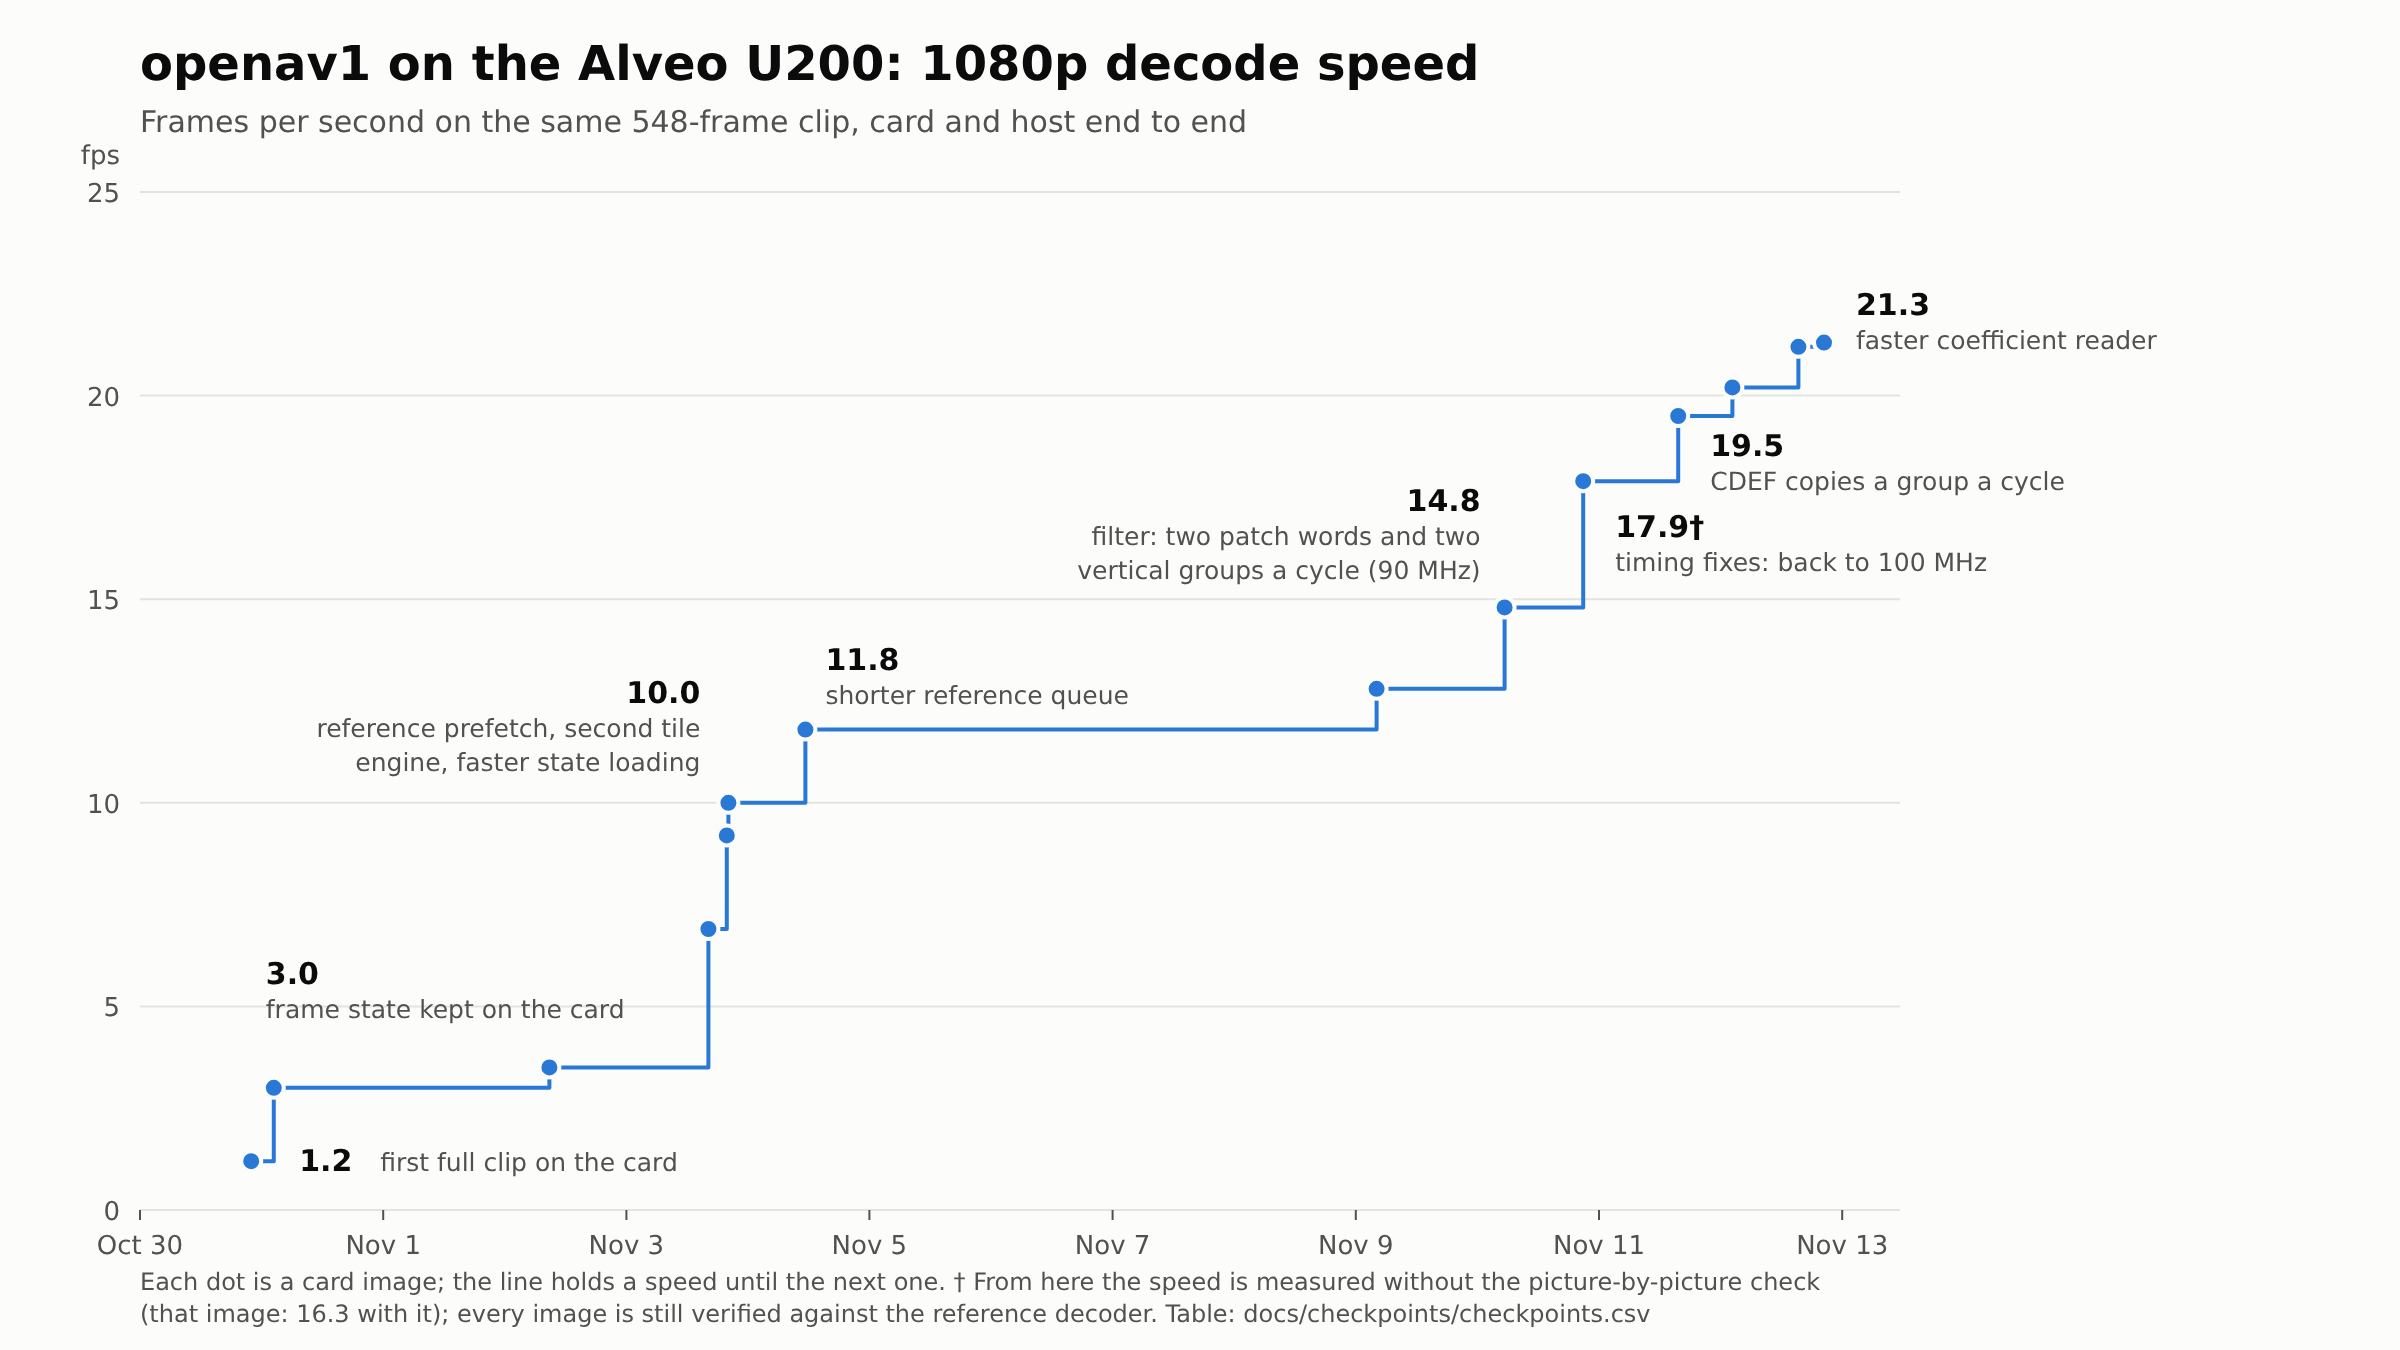
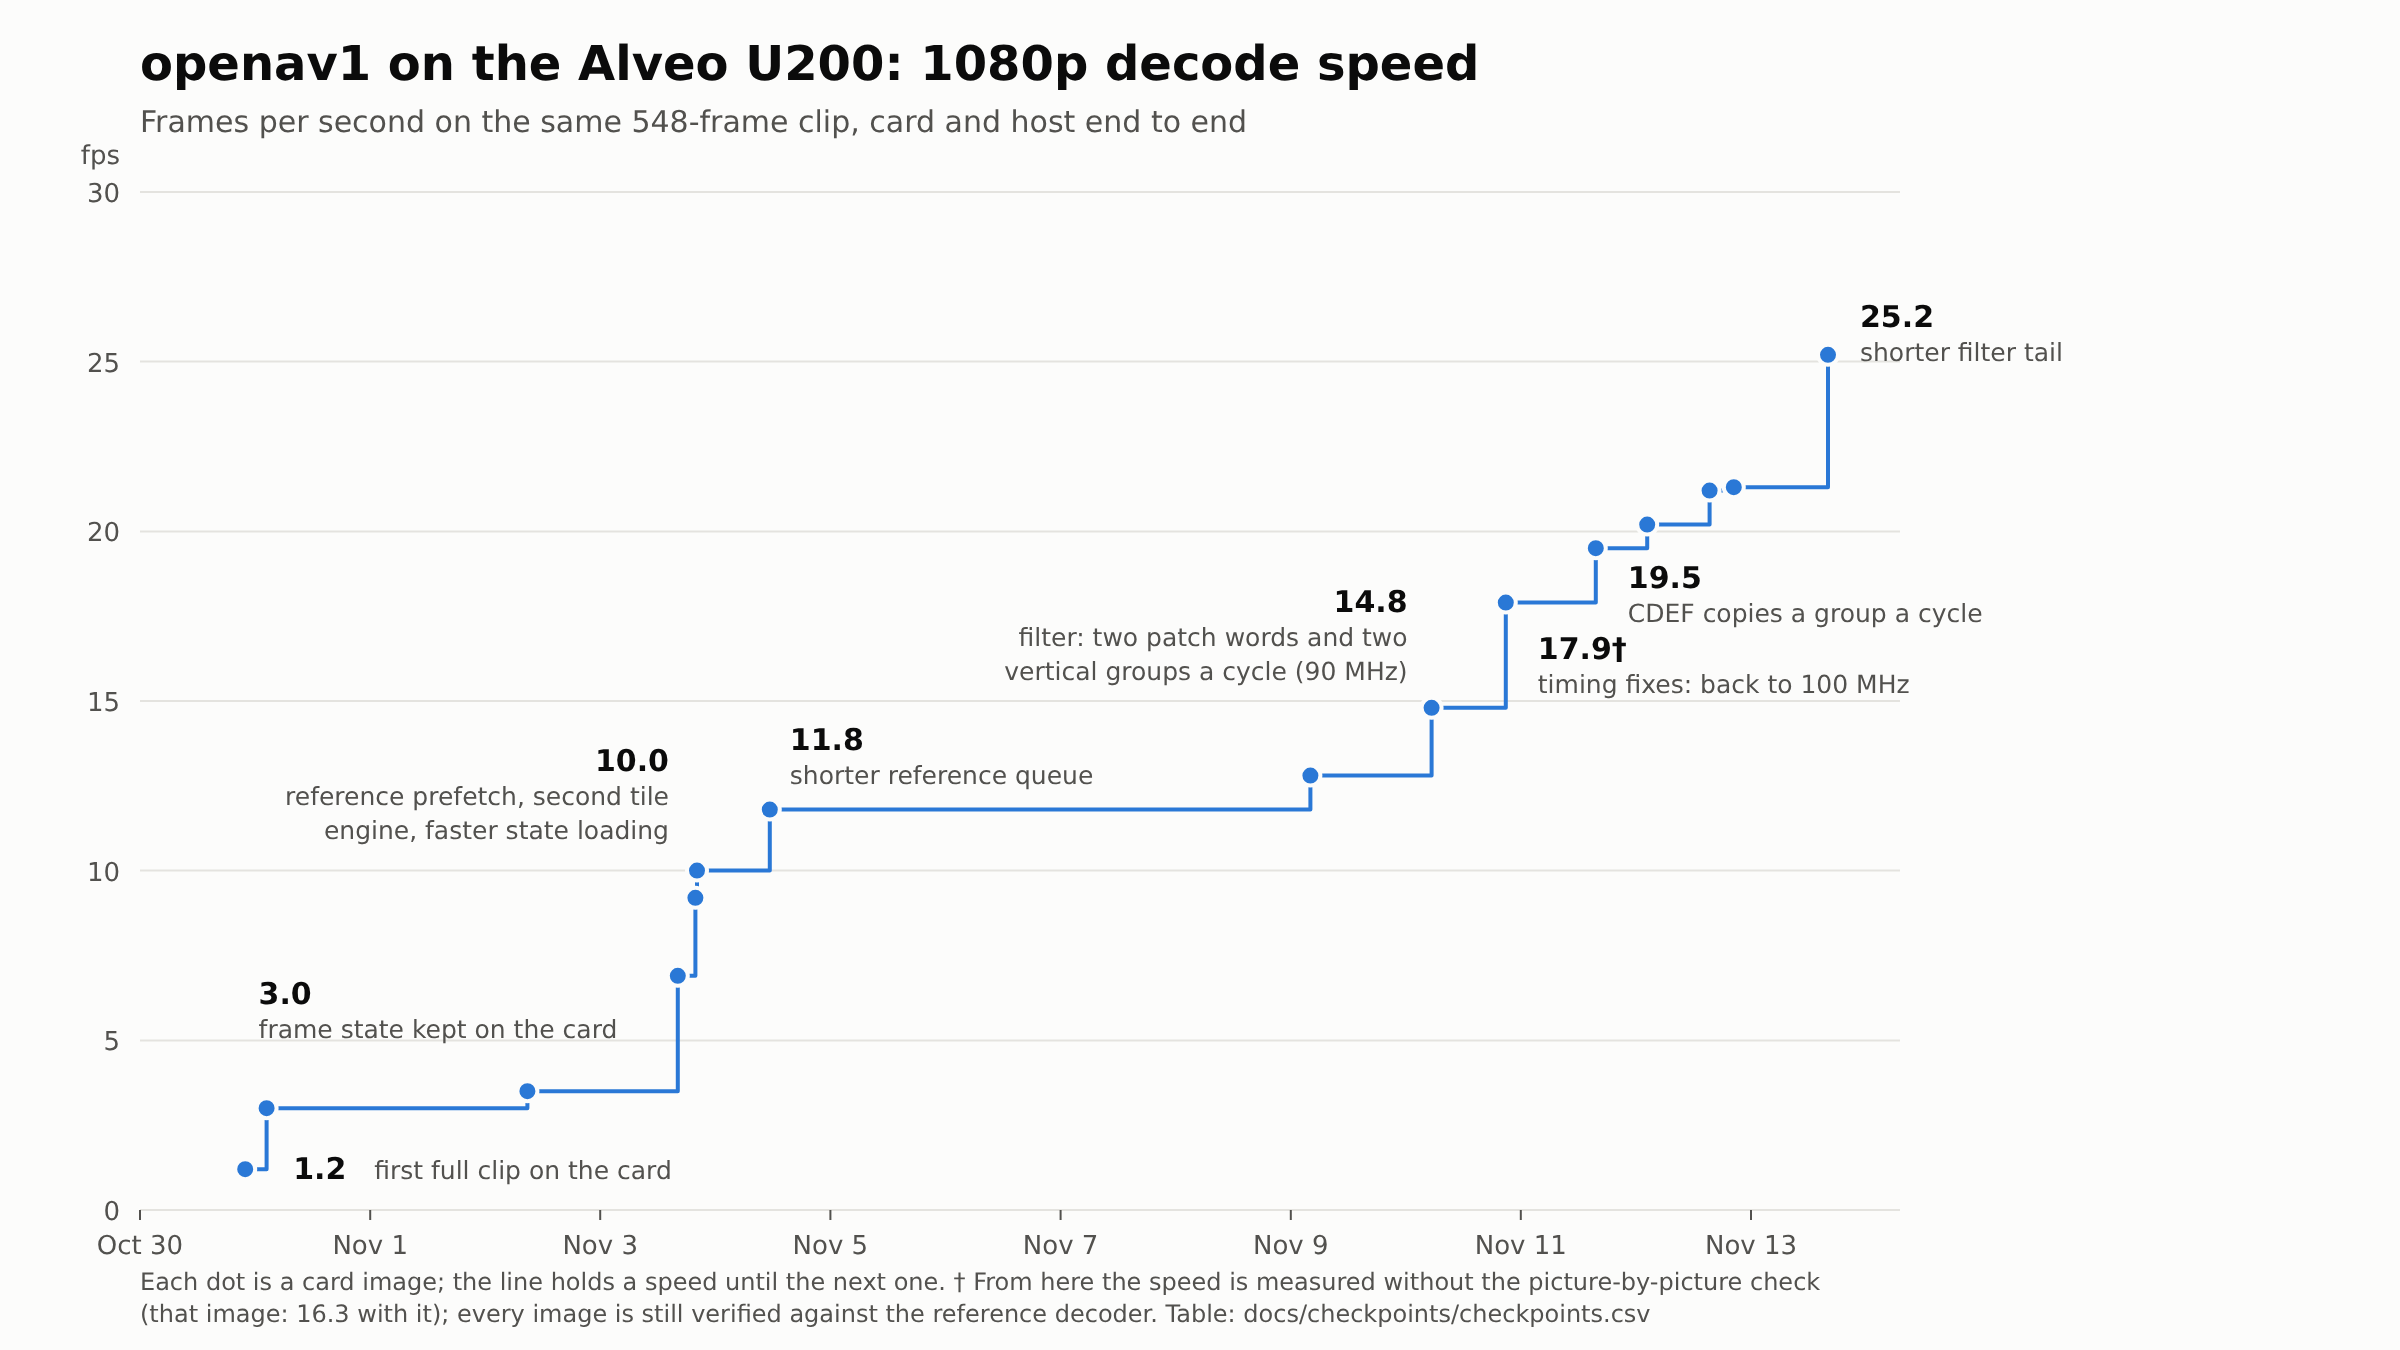
Checkpoint C15: 25.2 fps unchecked (21.8 checked) with u200-fm2rf16te2s100p-0e4709b
The streamed picture flush and deblocking a row earlier on the card at 100 MHz, reference ring 16 (WNS 0.002 ns, 0 failing endpoints): census 301/0/463, both clips identical, measured on an idle host. The filter tail falls from 7.7 to 4.0 ms a frame and the tile phase from 39.1 to 35.7 ms. Row, layout picture, chart (the annotation moves from C14 to C15), README speed line.

diff --git a/README.md b/README.md
@@ -12,7 +12,7 @@ This project is built by AI, though a human is involved.
 # current status
 
 *Argon profile-0 passing*
-*1080p at 21.3 fps*
+*1080p at 25.2 fps*
 
 ![1080p decode speed on the Alveo U200 over time](docs/checkpoints/fps.png)
 
